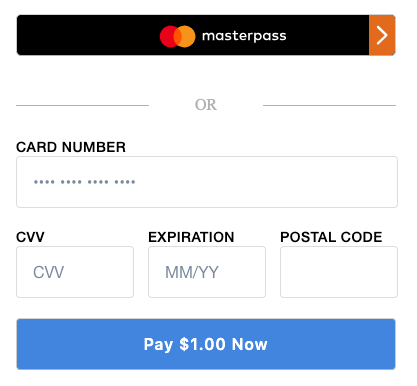
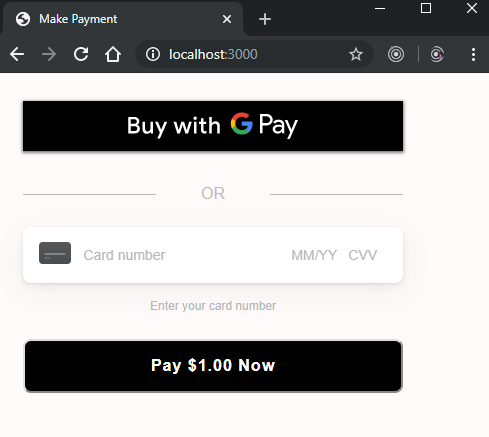
Converted to single-element payment form

diff --git a/connect-examples/v2/node_payment/public/js/sq-payment-form.js b/connect-examples/v2/node_payment/public/js/sq-payment-form.js
@@ -11,68 +11,51 @@ function onGetCardNonce(event) {
   paymentForm.requestCardNonce();
 }
 
-// Initializes the SqPaymentForm object by
-// initializing various configuration fields and providing implementation for callback functions.
-var paymentForm = new SqPaymentForm({
+var paymentFormWallets = new SqPaymentForm( {
   // Initialize the payment form elements
   applicationId: applicationId,
   locationId: locationId,
-  inputClass: 'sq-input',
-
-  // Customize the CSS for SqPaymentForm iframe elements
-  inputStyles: [{
-    backgroundColor: 'transparent',
-    color: '#333333',
-    fontFamily: '"Helvetica Neue", "Helvetica", sans-serif',
-    fontSize: '16px',
-    fontWeight: '400',
-    placeholderColor: '#8594A7',
-    placeholderFontWeight: '400',
-    padding: '16px',
-    _webkitFontSmoothing: 'antialiased',
-    _mozOsxFontSmoothing: 'grayscale'
-  }],
-
-  // Initialize Google Pay button ID
+  autoBuild: true,
   googlePay: {
     elementId: 'sq-google-pay'
   },
-
-  // Initialize Apple Pay placeholder ID
   applePay: {
     elementId: 'sq-apple-pay'
   },
-
-  // Initialize Masterpass placeholder ID
   masterpass: {
     elementId: 'sq-masterpass'
   },
-
-  // Initialize the credit card placeholders
-  cardNumber: {
-    elementId: 'sq-card-number',
-    placeholder: '•••• •••• •••• ••••'
-  },
-  cvv: {
-    elementId: 'sq-cvv',
-    placeholder: 'CVV'
-  },
-  expirationDate: {
-    elementId: 'sq-expiration-date',
-    placeholder: 'MM/YY'
-  },
-  postalCode: {
-    elementId: 'sq-postal-code'
-  },
-
   // SqPaymentForm callback functions
   callbacks: {
+    cardNonceResponseReceived: function(errors, nonce, cardData, billingContact, shippingContact) {
+      const errorList = document.getElementById("errors");
+      if (errors) {
+        let error_html = "";
+        for (var i = 0; i < errors.length; i++) {
+          error_html += "<li> " + errors[i].message + " </li>";
+        }
+        errorList.innerHTML = error_html;
+        errorList.style.display = 'inline-block';
+        return;
+      }
+      errorList.style.display = 'none';
+      errorList.innerHTML = "";
 
+      // Assign the nonce value to the hidden form field
+      document.getElementById('card-nonce').value = nonce;
+
+      // POST the nonce form to the payment processing page
+      document.getElementById('nonce-form').submit();
+
+    },
     /*
      * callback function: methodsSupported
      * Triggered when: the page is loaded.
      */
     methodsSupported: function (methods) {
+
+      console.log(paymentFormWallets.options)
+
       if (!methods.masterpass && !methods.applePay && !methods.googlePay) {
         var walletBox = document.getElementById('sq-walletbox');
         walletBox.style.display = 'none';
@@ -97,6 +80,10 @@ var paymentForm = new SqPaymentForm({
       if (methods.masterpass === true) {
         var masterpassBtn = document.getElementById('sq-masterpass');
         masterpassBtn.style.display = 'inline-block';
+        //Set button background image provided by MasterPass
+        masterpassBtn.style.backgroundImage = 'url('
+          + paymentFormWallets.masterpassImageUrl()
+          + ')';
       }
     },
 
@@ -105,7 +92,6 @@ var paymentForm = new SqPaymentForm({
      * Triggered when: a digital wallet payment button is clicked.
      */
     createPaymentRequest: function () {
-
       var paymentRequestJson = {
         requestShippingAddress: false,
         requestBillingInfo: true,
@@ -137,7 +123,6 @@ var paymentForm = new SqPaymentForm({
           }
         ]
       };
-
       return paymentRequestJson;
     },
 
@@ -154,29 +139,83 @@ var paymentForm = new SqPaymentForm({
     },
 
     /*
+     * callback function: paymentFormLoaded
+     * Triggered when: SqPaymentForm is fully loaded
+     */
+    paymentFormLoaded: function() {
+      /* HANDLE AS DESIRED */
+    }
+  }
+});
+
+// Initializes the SqPaymentForm object by
+// initializing various configuration fields and providing implementation for callback functions.
+var paymentForm = new SqPaymentForm({
+  // Initialize the payment form elements
+  applicationId: applicationId,
+  locationId: locationId,
+  autoBuild: true,
+  // Initialize the credit card placeholders
+  card: {
+    elementId: 'sq-card',
+    inputStyle: {
+      fontSize: '14px',
+      fontWeight: 500,
+      fontFamily: 'Helvetica',
+      placeholderFontWeight: 300,
+      borderRadius: '8px',
+      autoFillColor: '#000000',     //Card number & exp. date strings
+      color: '#000000',             //CVV & Zip
+      placeholderColor: '#B7B7B8',  //card field hints
+      backgroundColor: '#FFFFFF',   //Card entry background color
+      cardIconColor: 'linear-gradient(180deg, #29ACFF 0%, #0097F6 233.38%)',    //Card Icon color
+      boxShadow: "0px 2px 6px rgba(0,0,0,.02), 0px 4px 8px rgba(0,0,0, 0.04), 0px 8px 30px rgba(0,0,0, 0.04), 0px 1px 2px rgba(0,0,0, 0.08)",
+      error: {
+        cardIconColor: 'linear-gradient(180deg, #29ACFF 0%, #0097F6 233.38%)',
+        color: '#FF3E39',
+        backgroundColor: '#FFFFFF',
+        boxShadow: "0px 2px 6px rgba(0,0,0,.02), 0px 4px 8px rgba(0,0,0, 0.04), 0px 8px 30px rgba(0,0,0, 0.04), 0px 1px 2px rgba(0,0,0, 0.08)",
+        fontWeight: 500,
+        fontFamily: 'Helvetica' //font of the input field in error
+      },
+      details: {
+        hidden: false,    //Shows the entry field prompt string
+        color: '#B7B7B8', //Sets prompt string color
+        fontSize: '12px',
+        fontWeight: 500,
+        fontFamily: 'Helvetica',
+        error: {
+          color: '#FF3E39',
+          fontSize: '12px'
+        },
+      }
+    }
+  },
+
+  // SqPaymentForm callback functions
+  callbacks: {
+    /*
      * callback function: cardNonceResponseReceived
      * Triggered when: SqPaymentForm completes a card nonce request
      */
     cardNonceResponseReceived: function(errors, nonce, cardData, billingContact, shippingContact) {
-      if (errors){
-        var error_html = "";
-        for (var i =0; i < errors.length; i++){
+      const errorList = document.getElementById("errors");
+      if (errors) {
+        let error_html = "";
+        for (var i = 0; i < errors.length; i++) {
           error_html += "<li> " + errors[i].message + " </li>";
         }
-        document.getElementById("error").innerHTML = error_html;
-        document.getElementById('sq-creditcard').disabled = false;
-
+        errorList.innerHTML = error_html;
+        errorList.style.display = 'inline-block';
         return;
-      }else{
-        document.getElementById("error").innerHTML = "";
       }
-
+      errorList.style.display = 'none';
+      errorList.innerHTML = "";
       // Assign the nonce value to the hidden form field
       document.getElementById('card-nonce').value = nonce;
 
       // POST the nonce form to the payment processing page
       document.getElementById('nonce-form').submit();
-
     },
 
     /*
@@ -188,33 +227,6 @@ var paymentForm = new SqPaymentForm({
     },
 
     /*
-     * callback function: inputEventReceived
-     * Triggered when: visitors interact with SqPaymentForm iframe elements.
-     */
-    inputEventReceived: function(inputEvent) {
-      switch (inputEvent.eventType) {
-        case 'focusClassAdded':
-          /* HANDLE AS DESIRED */
-          break;
-        case 'focusClassRemoved':
-          /* HANDLE AS DESIRED */
-          break;
-        case 'errorClassAdded':
-          /* HANDLE AS DESIRED */
-          break;
-        case 'errorClassRemoved':
-          /* HANDLE AS DESIRED */
-          break;
-        case 'cardBrandChanged':
-          /* HANDLE AS DESIRED */
-          break;
-        case 'postalCodeChanged':
-          /* HANDLE AS DESIRED */
-          break;
-      }
-    },
-
-    /*
      * callback function: paymentFormLoaded
      * Triggered when: SqPaymentForm is fully loaded
      */
@@ -223,3 +235,4 @@ var paymentForm = new SqPaymentForm({
     }
   }
 });
+
